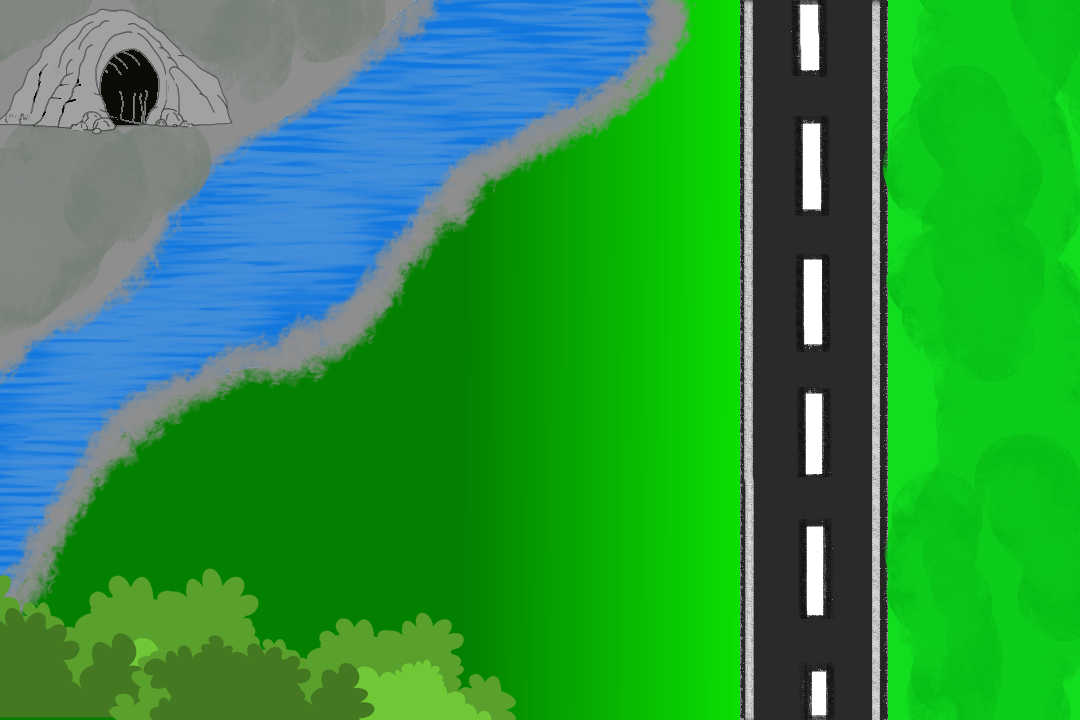
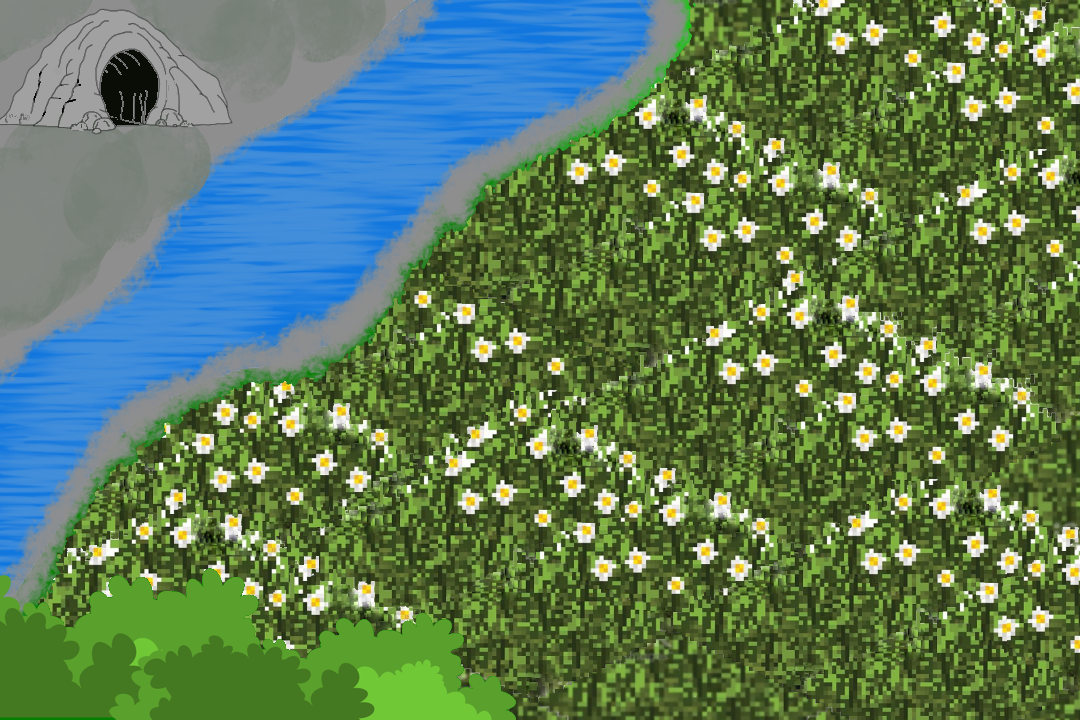
supression de l'élément car et ajout d'un new fond

diff --git a/terrain.py b/terrain.py
@@ -44,7 +44,6 @@ class Terrain:
         #creation des different groupes de elements
         peacefull_list = pygame.sprite.Group()
         savaged_list = pygame.sprite.Group()
-        car_list = pygame.sprite.Group()
         human_list = pygame.sprite.Group()
         resource_list = pygame.sprite.Group()
         print(ELEMENTS_COUNT.keys())
@@ -57,9 +56,6 @@ class Terrain:
                 elif element.type == "savaged":
                     for i in range(ELEMENTS_COUNT[key]):
                         savaged_list.add(element)
-                elif type(element) == Car:
-                    for i in range(ELEMENTS_COUNT[key]):
-                        car_list.add(element)
                 elif element.type == "resource":
                     for i in range(ELEMENTS_COUNT[key]):
                         resource_list.add(element)
@@ -67,19 +63,13 @@ class Terrain:
                     for i in range(ELEMENTS_COUNT[key]):
                         human_list.add(element)
 
-        return peacefull_list, savaged_list, car_list, human_list
+        return peacefull_list, savaged_list, human_list
         
     
     def place_elements(self, elements_list):
 
         for sprite in elements_list:
-            if type(sprite) == Car:
-                if sprite.color == 'Red':
-                    sprite.rect.x,sprite.rect.y =(815, 0)
-                else :
-                    sprite.rect.x,sprite.rect.y =(750, 590)
-
-            elif type(sprite)==Bear:
+            if type(sprite)==Bear:
                 sprite.rect.x,sprite.rect.y = self.get_random_place([[0,200],[0,200]])
             else :
                 sprite.rect.x,sprite.rect.y = self.get_random_place([[200,WIDTH-100],[200,HEIGHT-100]])
@@ -98,13 +88,6 @@ class Terrain:
                 sprite.vx = -sprite.vx
             if sprite.rect.top < 0 or sprite.rect.bottom > 300:
                 sprite.vy = -sprite.vy
-        
-        elif type(sprite) == Car:
-            #print(self.__screen.get_height()+100,sprite.rect.bottom)
-            if sprite.rect.top < 0 :
-                sprite.rect.y = self.__screen.get_height()-sprite.image.get_height()
-            elif sprite.rect.bottom > 900:
-                sprite.rect.y = 0
 
         else:
             if sprite.rect.left < 0 or sprite.rect.right-100 > self.__screen.get_width():
@@ -135,14 +118,12 @@ class Terrain:
         liste_elements = self.create_groups()
         liste_peacefull = liste_elements[0]
         liste_savaged = liste_elements[1]
-        liste_car = liste_elements[2]
-        human= liste_elements[3]
-        all_sprites = pygame.sprite.Group(liste_peacefull, liste_savaged, liste_car, human)
+        human= liste_elements[2]
+        all_sprites = pygame.sprite.Group(liste_peacefull, liste_savaged, human)
         
         #placement des sprites
         self.place_elements(liste_peacefull)
         self.place_elements(liste_savaged)
-        self.place_elements(liste_car)
         self.place_elements(human)
         
 

diff --git a/elements.py b/elements.py
@@ -203,22 +203,6 @@ class Falcon(Animal):
         self.image = pygame.transform.scale(image, (image.get_width()*0.8, image.get_height()*0.8))
         
 
-class Car(Animal):
-    def __init__(self, name="Car", life_max=100, damage=50, image = pygame.image.load(f"image/carBlue.png"), vx=0):
-        super().__init__(name, life_max, damage, image, vx)
-        self.type = "car"
-        self.color = ('Blue', 'Red')
-        self.color = random.choice(self.color)
-        if self.color == 'Red':
-            self.vy = random.randint(2,5)
-        else :
-            self.vy = -5
-        self.image = pygame.image.load(f"image/car{self.color}.png")
-        self.image = pygame.transform.scale(self.image, (self.image.get_width() * 0.4, self.image.get_height() * 0.4))
-        print(self.image.get_rect())
-
-
-
 
 class Human(Animal):
     def __init__(self, name="Gru", life_max=10, damage=2, image = pygame.image.load("image/gru.png")):

diff --git a/config.py b/config.py
@@ -19,8 +19,6 @@ DEFAULT_COUNT = {
     "Wolf" : 2,
     "Falcon" : 5,
     "Bear" : 1,
-    
-    "Car" : 2,
 
     "Human" : 1,
 
@@ -43,8 +41,6 @@ ELEMENTS_COUNT = {
     "Falcon" : DEFAULT_COUNT["Falcon"],
     "Bear" : 1,
     
-    "Car" : 2,
-
     "Human" : 1,
 
     "Three" : 5,
